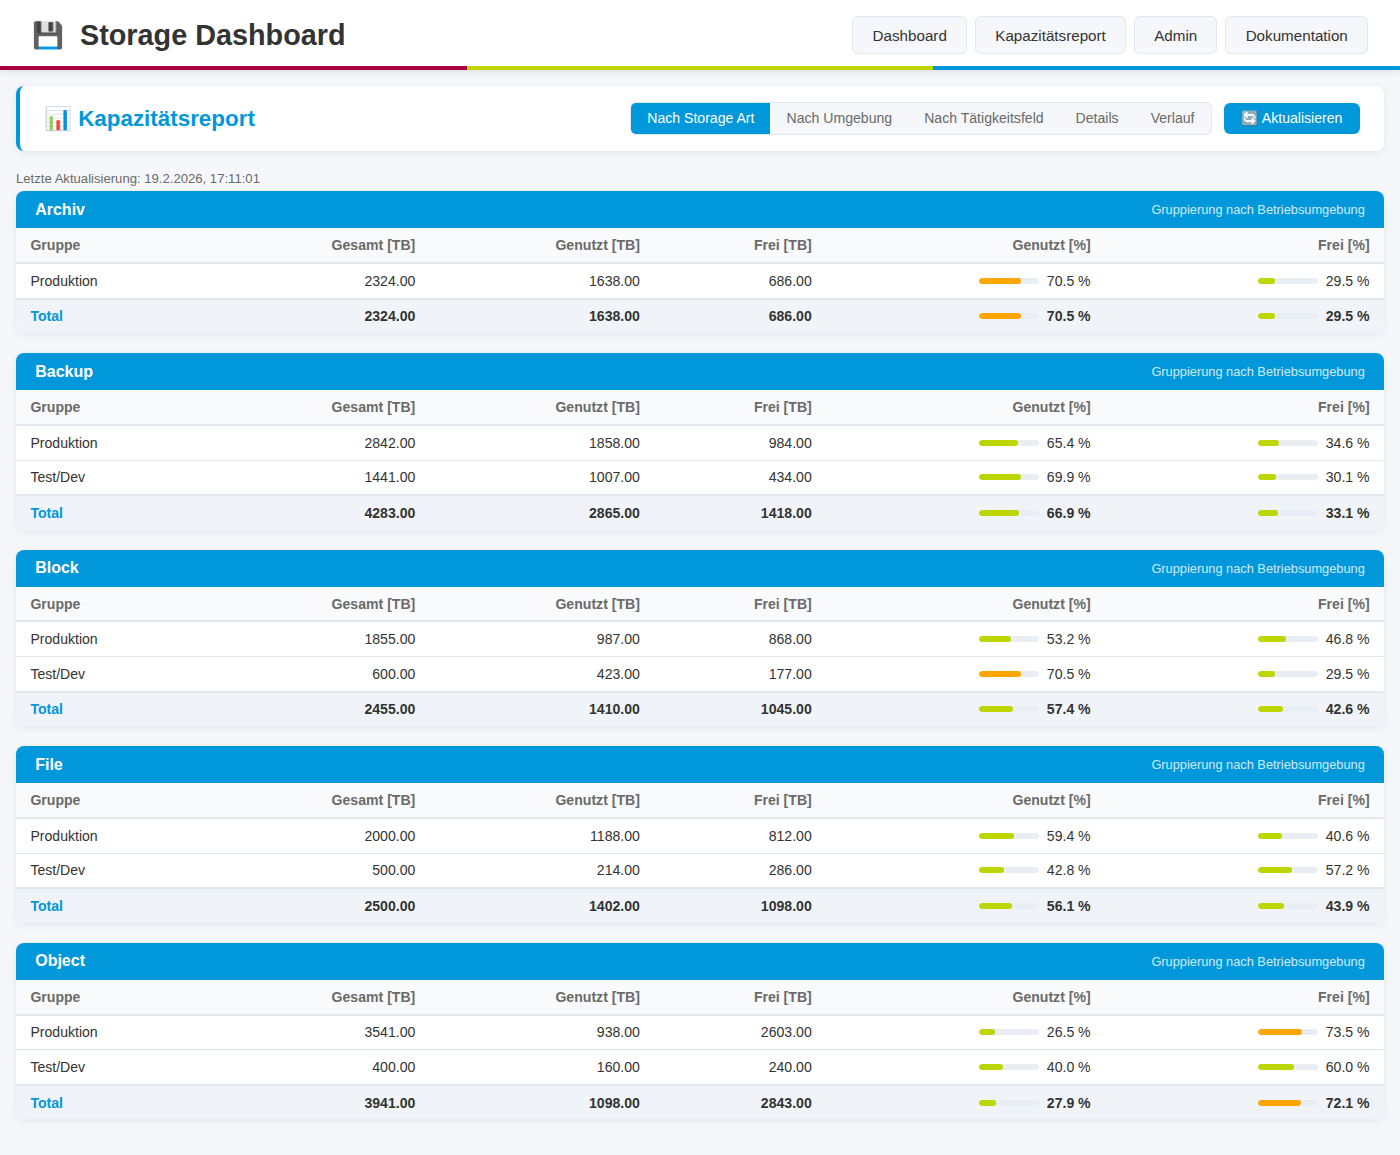
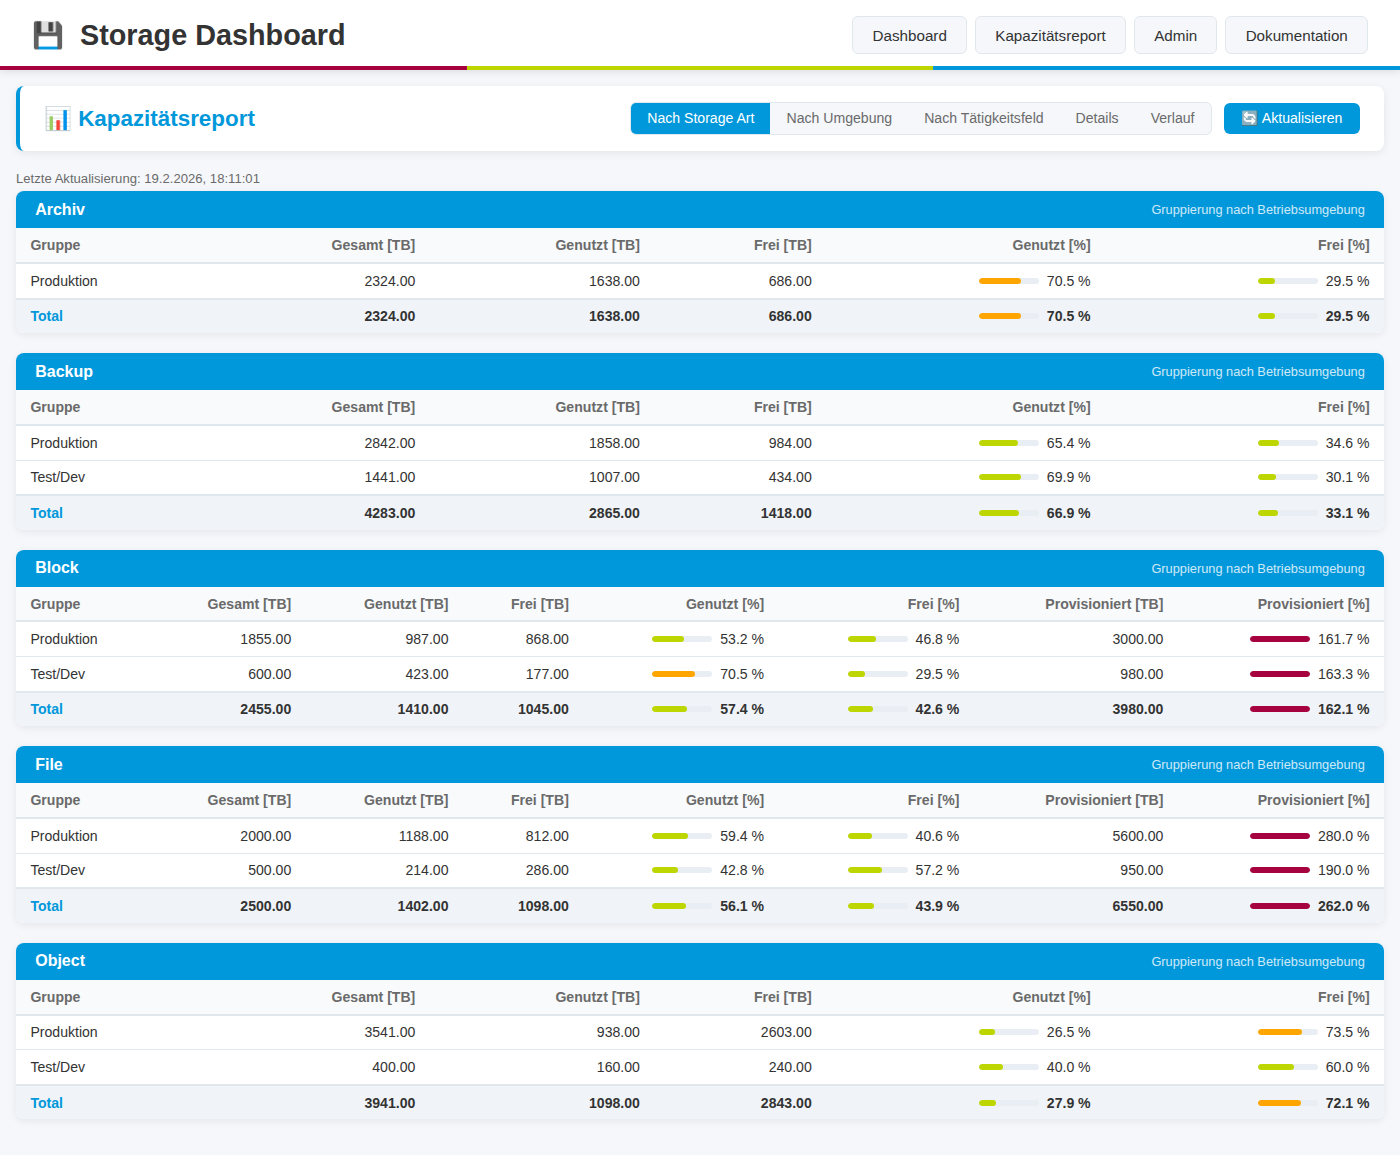
Add provisioned capacity columns for Block/File storage in Kapazitätsreport

diff --git a/app/templates/capacity.html b/app/templates/capacity.html
@@ -367,32 +367,61 @@ function pctBarHtml(pct) {
     </div>`;
 }
 
-function tableHeader(extraCols) {
-    return `<thead><tr>
-        <th>${extraCols.label}</th>
+/** Bar for provisioned % – may exceed 100 %; bar capped at 100 % width. */
+const PROV_HIGH_THRESHOLD   = 150;  // >= 150 % → red
+const PROV_MEDIUM_THRESHOLD = 100;  // >= 100 % → orange
+
+function pctBarHtmlProv(pct) {
+    if (pct == null) return '–';
+    const p = parseFloat(pct);
+    const barWidth = Math.min(p, 100);
+    const cls = p >= PROV_HIGH_THRESHOLD ? 'high' : p >= PROV_MEDIUM_THRESHOLD ? 'medium' : 'low';
+    return `<div class="pct-bar-wrap">
+        <div class="pct-bar"><div class="pct-bar-fill ${cls}" style="width:${barWidth}%"></div></div>
+        <span>${p.toFixed(1)} %</span>
+    </div>`;
+}
+
+/** True when any row or the total row contains a provisioned_tb value. */
+function hasProvisioned(rows, totalRow) {
+    return (totalRow && totalRow.provisioned_tb != null) ||
+           rows.some(r => r.provisioned_tb != null);
+}
+
+function tableHeader(label, showProvisioned) {
+    let cols = `<th>${label}</th>
         <th>Gesamt [TB]</th>
         <th>Genutzt [TB]</th>
         <th>Frei [TB]</th>
         <th>Genutzt [%]</th>
-        <th>Frei [%]</th>
-    </tr></thead>`;
+        <th>Frei [%]</th>`;
+    if (showProvisioned) {
+        cols += `<th>Provisioniert [TB]</th><th>Provisioniert [%]</th>`;
+    }
+    return `<thead><tr>${cols}</tr></thead>`;
 }
 
-function rowHtml(label, row, isTotalRow) {
+function rowHtml(label, row, isTotalRow, showProvisioned) {
     const cls = isTotalRow ? ' class="total-row"' : '';
-    return `<tr${cls}>
+    let html = `<tr${cls}>
         <td>${label}</td>
         <td>${fmt(row.total_tb)}</td>
         <td>${fmt(row.used_tb)}</td>
         <td>${fmt(row.free_tb)}</td>
         <td>${pctBarHtml(row.percent_used)}</td>
-        <td>${pctBarHtml(row.percent_free)}</td>
-    </tr>`;
+        <td>${pctBarHtml(row.percent_free)}</td>`;
+    if (showProvisioned) {
+        html += `<td>${fmt(row.provisioned_tb)}</td>
+        <td>${pctBarHtmlProv(row.percent_provisioned)}</td>`;
+    }
+    html += '</tr>';
+    return html;
 }
 
 function buildSection(title, subtitle, rows, totalRow) {
-    const rowsHtml = rows.map(r => rowHtml(r.label, r, false)).join('');
-    const totalHtml = rowHtml('Total', totalRow, true);
+    const showProvisioned = hasProvisioned(rows, totalRow);
+    const rowsHtml = rows.map(r => rowHtml(r.label, r, false, showProvisioned)).join('');
+    const totalHtml = rowHtml('Total', totalRow, true, showProvisioned);
     return `<div class="cap-section">
         <div class="cap-section-header">
             <span>${title}</span>
@@ -400,7 +429,7 @@ function buildSection(title, subtitle, rows, totalRow) {
         </div>
         <div class="cap-table-wrap">
             <table class="cap-table">
-                ${tableHeader({label: 'Gruppe'})}
+                ${tableHeader('Gruppe', showProvisioned)}
                 <tbody>${rowsHtml}${totalHtml}</tbody>
             </table>
         </div>
@@ -451,9 +480,10 @@ function renderDetails(data) {
         return;
     }
     el.innerHTML = data.map(g => {
+        const showProvisioned = g.systems.some(s => s.provisioned_tb != null);
         const rows = g.systems.map(s => {
             const errBadge = s.error ? `<span class="err-badge" title="${escHtml(s.error)}">Fehler</span>` : '';
-            return `<tr>
+            let row = `<tr>
                 <td>${escHtml(s.system_name)}${errBadge}</td>
                 <td>${escHtml(s.environment)}</td>
                 <td>${escHtml(s.department)}</td>
@@ -461,23 +491,30 @@ function renderDetails(data) {
                 <td>${fmt(s.used_tb)}</td>
                 <td>${fmt(s.free_tb)}</td>
                 <td>${pctBarHtml(s.percent_used)}</td>
-                <td>${pctBarHtml(s.percent_free)}</td>
-            </tr>`;
+                <td>${pctBarHtml(s.percent_free)}</td>`;
+            if (showProvisioned) {
+                row += `<td>${fmt(s.provisioned_tb)}</td>
+                <td>${pctBarHtmlProv(s.percent_provisioned)}</td>`;
+            }
+            row += '</tr>';
+            return row;
         }).join('');
-        return `<div class="cap-section">
-            <div class="cap-section-header"><span>${escHtml(g.storage_art)}</span></div>
-            <div class="cap-table-wrap">
-                <table class="cap-table">
-                    <thead><tr>
-                        <th>System</th>
+        let headerCols = `<th>System</th>
                         <th>Umgebung</th>
                         <th>Tätigkeitsfeld</th>
                         <th>Gesamt [TB]</th>
                         <th>Genutzt [TB]</th>
                         <th>Frei [TB]</th>
                         <th>Genutzt [%]</th>
-                        <th>Frei [%]</th>
-                    </tr></thead>
+                        <th>Frei [%]</th>`;
+        if (showProvisioned) {
+            headerCols += `<th>Provisioniert [TB]</th><th>Provisioniert [%]</th>`;
+        }
+        return `<div class="cap-section">
+            <div class="cap-section-header"><span>${escHtml(g.storage_art)}</span></div>
+            <div class="cap-table-wrap">
+                <table class="cap-table">
+                    <thead><tr>${headerCols}</tr></thead>
                     <tbody>${rows}</tbody>
                 </table>
             </div>

diff --git a/examples/seed_demo_data.py b/examples/seed_demo_data.py
@@ -39,7 +39,8 @@ DEMO_SYSTEMS = [
         'port': 443,
         'tags': {'Storage Art': 'Block', 'Landschaft': 'Produktion', 'Themenzugehörigkeit': 'ITS'},
         'total_tb': 800.0,
-        'used_tb': 568.0,   # 71 %
+        'used_tb': 568.0,       # 71 %
+        'provisioned_tb': 1600.0,  # 200 % – typical overprovisioning for block
     },
     {
         'name': 'Pure-Block-PROD-ERZ-01',
@@ -48,7 +49,8 @@ DEMO_SYSTEMS = [
         'port': 443,
         'tags': {'Storage Art': 'Block', 'Landschaft': 'Produktion', 'Themenzugehörigkeit': 'ERZ'},
         'total_tb': 600.0,
-        'used_tb': 378.0,   # 63 %
+        'used_tb': 378.0,       # 63 %
+        'provisioned_tb': 900.0,   # 150 %
     },
     {
         'name': 'Pure-Block-PROD-EH-01',
@@ -57,7 +59,8 @@ DEMO_SYSTEMS = [
         'port': 443,
         'tags': {'Storage Art': 'Block', 'Landschaft': 'Produktion', 'Themenzugehörigkeit': 'EH'},
         'total_tb': 455.0,
-        'used_tb': 41.0,    # 9 %
+        'used_tb': 41.0,        # 9 %
+        'provisioned_tb': 500.0,   # 110 %
     },
     {
         'name': 'Pure-Block-TEST-ITS-01',
@@ -66,7 +69,8 @@ DEMO_SYSTEMS = [
         'port': 443,
         'tags': {'Storage Art': 'Block', 'Landschaft': 'Test/Dev', 'Themenzugehörigkeit': 'ITS'},
         'total_tb': 350.0,
-        'used_tb': 245.0,   # 70 %
+        'used_tb': 245.0,       # 70 %
+        'provisioned_tb': 600.0,   # 171 %
     },
     {
         'name': 'Pure-Block-TEST-ERZ-01',
@@ -75,7 +79,8 @@ DEMO_SYSTEMS = [
         'port': 443,
         'tags': {'Storage Art': 'Block', 'Landschaft': 'Test/Dev', 'Themenzugehörigkeit': 'ERZ'},
         'total_tb': 250.0,
-        'used_tb': 178.0,   # 71 %
+        'used_tb': 178.0,       # 71 %
+        'provisioned_tb': 380.0,   # 152 %
     },
     # ── File ───────────────────────────────────────────────────────────────
     {
@@ -85,7 +90,8 @@ DEMO_SYSTEMS = [
         'port': 443,
         'tags': {'Storage Art': 'File', 'Landschaft': 'Produktion', 'Themenzugehörigkeit': 'ITS'},
         'total_tb': 1200.0,
-        'used_tb': 756.0,   # 63 %
+        'used_tb': 756.0,       # 63 %
+        'provisioned_tb': 3600.0,  # 300 % – NFS/CIFS thin provisioning typical
     },
     {
         'name': 'NetApp-File-PROD-ERZ-01',
@@ -94,7 +100,8 @@ DEMO_SYSTEMS = [
         'port': 443,
         'tags': {'Storage Art': 'File', 'Landschaft': 'Produktion', 'Themenzugehörigkeit': 'ERZ'},
         'total_tb': 800.0,
-        'used_tb': 432.0,   # 54 %
+        'used_tb': 432.0,       # 54 %
+        'provisioned_tb': 2000.0,  # 250 %
     },
     {
         'name': 'NetApp-File-TEST-ITS-01',
@@ -103,7 +110,8 @@ DEMO_SYSTEMS = [
         'port': 443,
         'tags': {'Storage Art': 'File', 'Landschaft': 'Test/Dev', 'Themenzugehörigkeit': 'ITS'},
         'total_tb': 300.0,
-        'used_tb': 132.0,   # 44 %
+        'used_tb': 132.0,       # 44 %
+        'provisioned_tb': 600.0,   # 200 %
     },
     {
         'name': 'NetApp-File-TEST-ERZ-01',
@@ -112,7 +120,8 @@ DEMO_SYSTEMS = [
         'port': 443,
         'tags': {'Storage Art': 'File', 'Landschaft': 'Test/Dev', 'Themenzugehörigkeit': 'ERZ'},
         'total_tb': 200.0,
-        'used_tb': 82.0,    # 41 %
+        'used_tb': 82.0,        # 41 %
+        'provisioned_tb': 350.0,   # 175 %
     },
     # ── Archiv ─────────────────────────────────────────────────────────────
     {
@@ -271,6 +280,8 @@ def seed(reset=False):
             free_tb = round(total_tb - used_tb, 2)
             pct_used = round(used_tb / total_tb * 100, 1) if total_tb > 0 else 0.0
             pct_free = round(100.0 - pct_used, 1)
+            provisioned_tb = sdef.get('provisioned_tb')  # None for non-Block/File types
+            pct_provisioned = round(provisioned_tb / total_tb * 100, 1) if provisioned_tb is not None and total_tb > 0 else None
 
             # Upsert current snapshot
             snap = CapacitySnapshot.query.filter_by(system_id=system.id).first()
@@ -283,10 +294,13 @@ def seed(reset=False):
             snap.free_tb = free_tb
             snap.percent_used = pct_used
             snap.percent_free = pct_free
+            snap.provisioned_tb = provisioned_tb
+            snap.percent_provisioned = pct_provisioned
             snap.error = None
 
-            # Generate 2-year daily history (linear growth → current used)
-            # Assume systems started ~40 % used 2 years ago
+            # Generate 2-year daily history (linear growth → current used).
+            # For provisioned_tb we hold the current value constant (it changes
+            # rarely in practice compared to actual usage growth).
             start_used = round(used_tb * 0.40, 2)
             daily_values = _growth_curve(start_used, used_tb, history_days)
 
@@ -305,6 +319,7 @@ def seed(reset=False):
                         used_tb=day_used,
                         free_tb=day_free,
                         percent_used=day_pct,
+                        provisioned_tb=provisioned_tb,
                     )
                     db.session.add(hist)
                 else:
@@ -312,6 +327,7 @@ def seed(reset=False):
                     hist.used_tb = day_used
                     hist.free_tb = day_free
                     hist.percent_used = day_pct
+                    hist.provisioned_tb = provisioned_tb
 
         db.session.commit()
         print()

diff --git a/app/capacity_service.py b/app/capacity_service.py
@@ -168,10 +168,15 @@ def _accumulate(row, other):
         row['total_tb'] += other.get('total_tb', 0.0) or 0.0
         row['used_tb'] += other.get('used_tb', 0.0) or 0.0
         row['free_tb'] += other.get('free_tb', 0.0) or 0.0
+        provisioned = other.get('provisioned_tb')
+        if provisioned is not None:
+            row['provisioned_tb'] = (row['provisioned_tb'] or 0.0) + provisioned
     else:
         row['total_tb'] += other.total_tb or 0.0
         row['used_tb'] += other.used_tb or 0.0
         row['free_tb'] += other.free_tb or 0.0
+        if hasattr(other, 'provisioned_tb') and other.provisioned_tb is not None:
+            row['provisioned_tb'] = (row['provisioned_tb'] or 0.0) + other.provisioned_tb
 
 
 def _finalize(row):
@@ -180,12 +185,16 @@ def _finalize(row):
     if total > 0:
         row['percent_used'] = round(row['used_tb'] / total * 100, 1)
         row['percent_free'] = round(row['free_tb'] / total * 100, 1)
+        if row['provisioned_tb'] is not None:
+            row['percent_provisioned'] = round(row['provisioned_tb'] / total * 100, 1)
     else:
         row['percent_used'] = 0.0
         row['percent_free'] = 0.0
     row['total_tb'] = round(row['total_tb'], 2)
     row['used_tb'] = round(row['used_tb'], 2)
     row['free_tb'] = round(row['free_tb'], 2)
+    if row['provisioned_tb'] is not None:
+        row['provisioned_tb'] = round(row['provisioned_tb'], 2)
     return row
 
 
@@ -369,6 +378,7 @@ def build_details(systems, snapshots):
             'total_tb': 0.0, 'used_tb': 0.0, 'free_tb': 0.0,
             'provisioned_tb': None,
             'percent_used': 0.0, 'percent_free': 0.0,
+            'percent_provisioned': None,
             'error': None,
         }
         if snap:
@@ -377,6 +387,8 @@ def build_details(systems, snapshots):
             row['free_tb'] = round(snap.free_tb or 0.0, 2)
             row['percent_used'] = snap.percent_used or 0.0
             row['percent_free'] = snap.percent_free or 0.0
+            row['provisioned_tb'] = round(snap.provisioned_tb, 2) if snap.provisioned_tb is not None else None
+            row['percent_provisioned'] = snap.percent_provisioned
             row['error'] = snap.error
 
         for art in arts:
